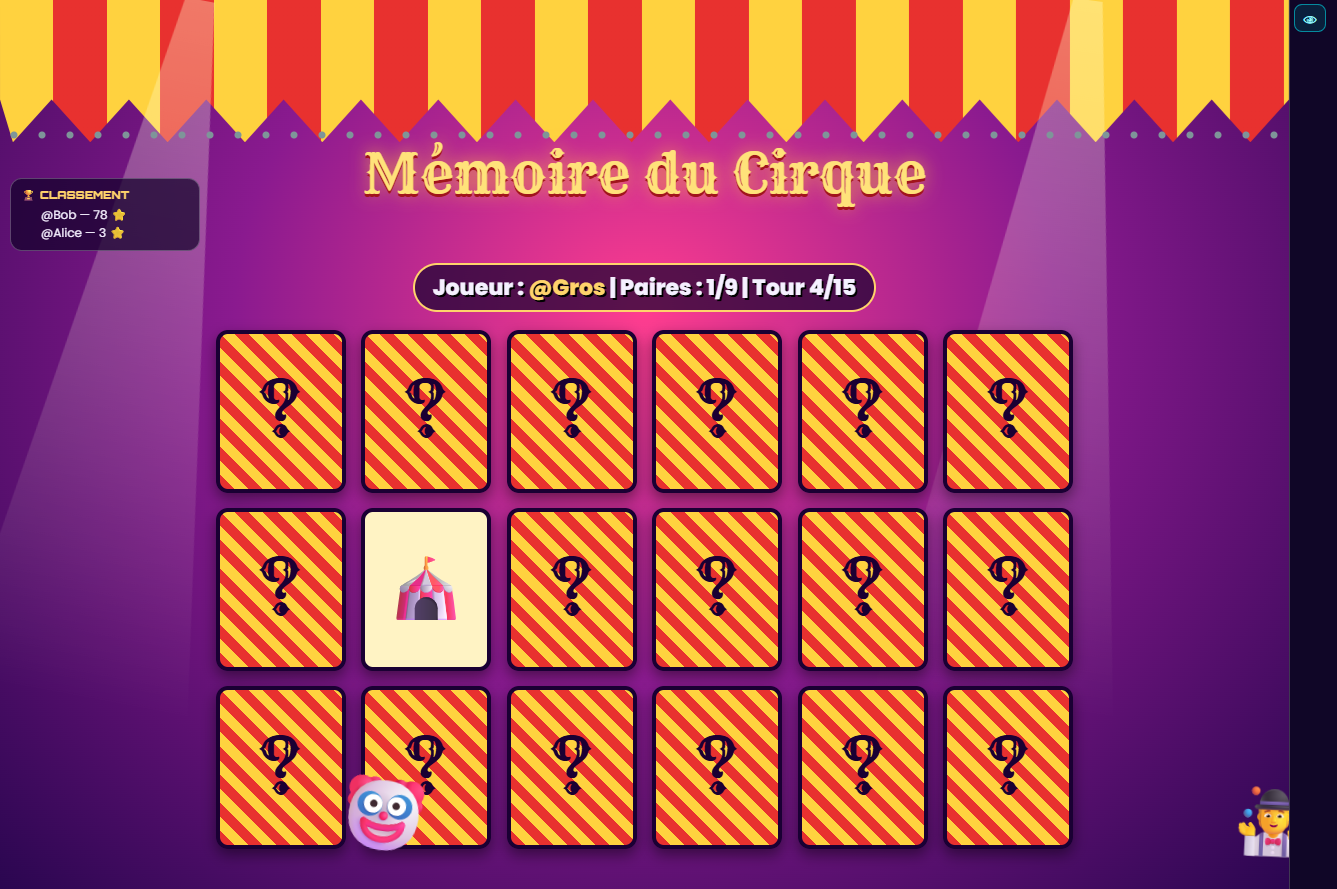
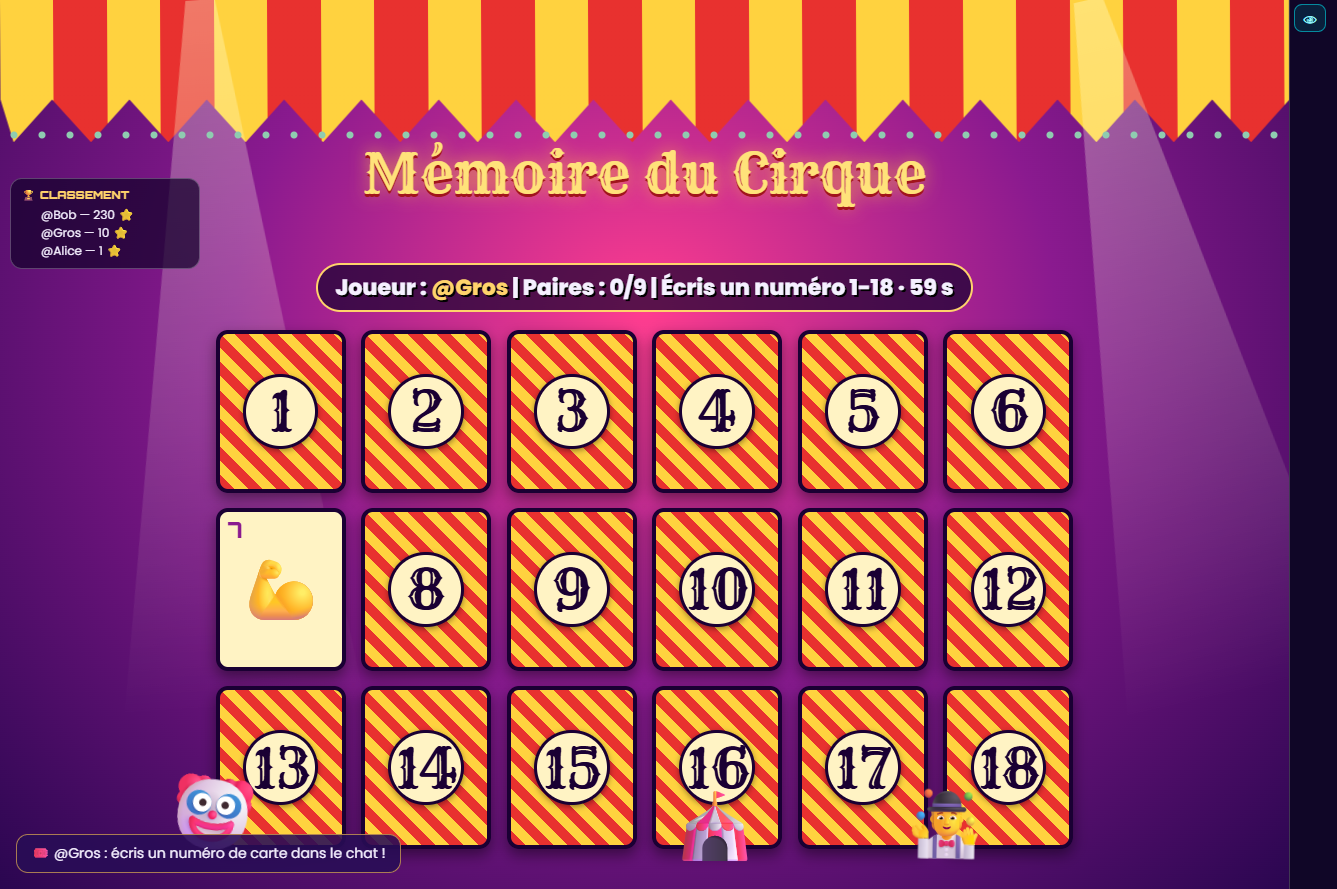
Memoire du Cirque: cartes numerotees, numeros dans le chat, fin de partie a la premiere erreur

diff --git a/memoire-du-cirque.html b/memoire-du-cirque.html
@@ -25,7 +25,9 @@
         .card { width: var(--cw); height: calc(var(--cw) * 1.25); position: relative; transform-style: preserve-3d; transition: transform .55s; }
         .card.up { transform: rotateY(180deg); }
         .card .face { position: absolute; inset: 0; display: flex; align-items: center; justify-content: center; border: 4px solid #1a0033; border-radius: 12px; backface-visibility: hidden; font-size: calc(var(--cw) * .5); box-shadow: 0 6px 14px rgba(0,0,0,.45); }
-        .card .back { background: repeating-linear-gradient(45deg, #e8312f 0 10px, #ffd23f 10px 20px); color: #1a0033; font: 400 calc(var(--cw) * .55) Rye, serif; }
+        .card .back { background: repeating-linear-gradient(45deg, #e8312f 0 10px, #ffd23f 10px 20px); color: #1a0033; }
+        .card .num { display: grid; place-items: center; width: 62%; aspect-ratio: 1; border-radius: 50%; background: #fff3c4; border: 3px solid #1a0033; font: 400 calc(var(--cw) * .42) Rye, serif; box-shadow: 0 2px 6px rgba(0,0,0,.4); }
+        .card .tag { position: absolute; top: 4px; left: 8px; font: 900 calc(var(--cw) * .17) Orbitron, sans-serif; color: #8a1a8f; }
         .card .front { background: #fff3c4; transform: rotateY(180deg); }
         .card.done .front { background: #b6ffcf; animation: pop .7s; }
         @keyframes pop { 40% { transform: rotateY(180deg) scale(1.2); } }
@@ -115,8 +117,8 @@
             </section>
             <section class="box">
                 <h3>Réglages</h3>
-                <label for="chance">Chance de paire <output id="chance-out">50%</output></label>
-                <input id="chance" type="range" min="0" max="100" step="1" value="50">
+                <label for="timeout">Temps pour jouer <output id="timeout-out">60 s</output></label>
+                <input id="timeout" type="range" min="15" max="180" step="5" value="60">
                 <div class="row">
                     <label>Min ⭐<input id="star-min" type="number" min="1" max="30" value="1"></label>
                     <label>Max ⭐<input id="star-max" type="number" min="1" max="30" value="30"></label>
@@ -129,6 +131,7 @@
                 <input id="sim-name" type="text" maxlength="24" value="Alex_TikTok 🚀" aria-label="Pseudo simulé">
                 <div class="row"><button id="sim-gift" class="btn" type="button">🎁 1 pièce</button><button id="sim-burst" class="btn" type="button">💥 ×5</button></div>
                 <button id="sim-big" class="btn" type="button">💎 Gros cadeau</button>
+                <div class="row"><input id="sim-num" type="text" inputmode="numeric" maxlength="3" placeholder="N° de carte" aria-label="Numéro écrit dans le chat"><button id="sim-say" class="btn alt" type="button">💬 Écrire dans le chat</button></div>
             </section>
             <section class="box">
                 <h3>Partie</h3>
@@ -144,11 +147,11 @@
         const $ = id => document.getElementById(id);
         const SAVE_KEY = 'memoire-du-cirque-save';
         const ICONS = ['🎪', '🎩', '🍿', '💪', '🦁', '🐯', '🤹', '🎟', '🚲'];
-        const PAIRS = ICONS.length, TURNS_PER_SESSION = 15;
-        const settings = { chance: 50, min: 1, max: 30, bigGift: 100, speed: 1, hideBoard: false };
+        const PAIRS = ICONS.length;
+        const settings = { timeout: 60, min: 1, max: 30, bigGift: 100, speed: 1, hideBoard: false };
         const viewers = new Map();
         const queue = [];
-        let session = null, running = false, cards = [], rewards = [], jackpotPair = 0, matched = 0, current = null;
+        let run = null, cards = [], rewards = [], jackpotPair = 0, matched = 0;
 
         const rand = (a, b) => a + Math.floor(Math.random() * (b - a + 1));
         const shuffle = list => { for (let i = list.length - 1; i > 0; i--) { const j = rand(0, i); [list[i], list[j]] = [list[j], list[i]]; } return list; };
@@ -179,8 +182,10 @@
             cards = deck.map((d, i) => {
                 const el = document.createElement('div');
                 el.className = 'card';
-                el.innerHTML = '<div class="face back">?</div><div class="face front"></div>';
-                el.querySelector('.front').textContent = d.icon;
+                el.innerHTML = '<div class="face back"><span class="num"></span></div><div class="face front"><span class="tag"></span><span class="ico"></span></div>';
+                el.querySelector('.num').textContent = i + 1;
+                el.querySelector('.tag').textContent = i + 1;
+                el.querySelector('.ico').textContent = d.icon;
                 grid.appendChild(el);
                 return { el, icon: d.icon, pair: d.pair, done: false, index: i };
             });
@@ -188,85 +193,108 @@
 
         function enqueue(viewer, coins, sim) {
             coins = Math.min(500, Math.max(1, Math.floor(coins)));
-            let entry = queue.find(q => q.viewer === viewer && q.sim === sim) || (session && session.entry.viewer === viewer && session.entry.sim === sim ? session.entry : null);
+            let entry = queue.find(q => q.viewer === viewer && q.sim === sim) || (run && run.entry.viewer === viewer && run.entry.sim === sim ? run.entry : null);
             if (!entry) {
                 if (queue.length >= 80) return;
-                entry = { viewer, sim, credits: 0, jackpots: 0 };
+                entry = { viewer, sim, credits: 0, big: 0 };
                 queue.push(entry);
             }
             entry.credits += coins;
-            if (coins >= settings.bigGift) entry.jackpots++;
-            runLoop();
+            if (coins >= settings.bigGift) entry.big++;
+            nextRun();
         }
 
-        async function runLoop() {
-            if (running) return;
-            running = true;
-            try {
-                while (queue.length || (session && session.left > 0)) {
-                    if (!session || session.left <= 0) {
-                        const entry = queue.shift();
-                        session = { entry, size: Math.min(TURNS_PER_SESSION, entry.credits), left: Math.min(TURNS_PER_SESSION, entry.credits), k: 0 };
-                    }
-                    const { entry } = session;
-                    session.k++; session.left--; entry.credits--;
-                    const jackpot = entry.jackpots > 0;
-                    if (jackpot) entry.jackpots--;
-                    current = entry.viewer;
-                    updateScoreboard();
-                    await playTurn(entry, jackpot);
-                    if (session.left <= 0) {
-                        if (entry.credits > 0) queue.push(entry);
-                        session = null;
-                    }
-                }
-            } finally {
-                running = false; current = null; session = null;
-                updateScoreboard();
-            }
+        /* Un jeton = une partie : le joueur écrit des numéros dans le chat jusqu'à sa première erreur */
+        function nextRun() {
+            if (run || !queue.length) return;
+            const entry = queue.shift();
+            entry.credits--;
+            const big = entry.big > 0;
+            if (big) entry.big--;
+            run = { entry, big, first: null, busy: false, pairs: 0, deadline: Date.now() + settings.timeout * 1000 };
+            say(`🎟 @${entry.viewer.username} : écris un numéro de carte dans le chat !`);
+            updateScoreboard();
+        }
+
+        function endRun() {
+            const r = run;
+            run = null;
+            if (r && r.entry.credits > 0) queue.push(r.entry);
+            updateScoreboard();
+            nextRun();
         }
 
         function flip(card, up) { card.el.classList.toggle('up', up); }
 
-        async function playTurn(entry, jackpot) {
-            const open = cards.filter(c => !c.done);
-            if (open.length < 2) { deal(); return playTurn(entry, jackpot); }
-            const target = jackpot ? open.find(c => c.pair === jackpotPair) : null;
-            const normal = open.filter(c => c.pair !== jackpotPair);
-            const a = target || shuffle((normal.length >= 2 ? normal : open).slice())[0];
-            const partner = open.find(c => c.pair === a.pair && c !== a);
-            const others = open.filter(c => c !== a && c !== partner);
-            const win = !others.length || Math.random() * 100 < settings.chance;
-            const b = win ? partner : others[rand(0, others.length - 1)];
+        async function resetGrid() {
+            cards.forEach(c => flip(c, false));
+            await sleep(700);
+            deal();
+        }
 
-            flip(a, true); await sleep(650);
-            flip(b, true); await sleep(1100);
+        function findViewer(raw) {
+            return viewers.get(String(raw || '').replace(/^@/, '').trim().toLowerCase());
+        }
 
-            if (win) {
+        function onChat(rawName, text) {
+            if (!run || run.busy) return;
+            const viewer = findViewer(rawName);
+            if (!viewer || viewer !== run.entry.viewer) return;
+            const m = /^#?\s*(\d{1,2})\s*$/.exec(String(text || '').trim());
+            const card = m && cards[Number(m[1]) - 1];
+            if (!card || card.done || card === run.first) return;
+            pick(card);
+        }
+
+        async function pick(card) {
+            const r = run;
+            r.busy = true;
+            flip(card, true);
+            if (!r.first) {
+                r.first = card;
+                await sleep(500);
+                r.deadline = Date.now() + settings.timeout * 1000;
+                r.busy = false;
+                return;
+            }
+            const a = r.first, b = card;
+            await sleep(1100);
+            if (a.pair === b.pair) {
                 a.done = b.done = true;
                 a.el.classList.add('done'); b.el.classList.add('done');
-                matched++;
-                const reward = rewards[a.pair];
-                entry.viewer.stars += reward;
-                if (!entry.sim && window.ArcadeStars) {
-                    window.ArcadeStars.award({ username: entry.viewer.username, amount: reward })
+                matched++; r.pairs++; r.first = null;
+                const reward = a.pair === jackpotPair && !r.big ? Math.max(1, Math.min(settings.min, settings.max)) : rewards[a.pair];
+                r.entry.viewer.stars += reward;
+                if (!r.entry.sim && window.ArcadeStars) {
+                    window.ArcadeStars.award({ username: r.entry.viewer.username, amount: reward })
                         .catch(error => { console.error('Étoiles non enregistrées :', error); say('Étoiles non enregistrées : ' + error.message); });
                 }
                 floatText(`+${reward} ⭐`, b.el);
-                say(`🎉 ${entry.viewer.username} trouve une paire : ${reward} ⭐`);
+                say(`🎉 @${r.entry.viewer.username} trouve une paire : ${reward} ⭐ — il continue !`);
                 updateScoreboard(); saveGame();
                 await sleep(900);
                 if (matched >= PAIRS) {
-                    say('🎪 Toutes les paires sont trouvées ! Nouvelle donne…');
+                    say('🎪 Grille complète ! Nouvelle grille, le joueur continue.');
                     await sleep(1800);
-                    cards.forEach(c => flip(c, false));
-                    await sleep(700);
-                    deal();
+                    await resetGrid();
                 }
+                r.deadline = Date.now() + settings.timeout * 1000;
+                r.busy = false;
             } else {
-                flip(a, false); flip(b, false);
-                await sleep(700);
+                say(`❌ Erreur ! Fin de partie pour @${r.entry.viewer.username}`);
+                await sleep(900);
+                await resetGrid();
+                endRun();
             }
+        }
+
+        function tick() {
+            if (run && !run.busy && Date.now() > run.deadline) {
+                say(`⏱ Temps écoulé pour @${run.entry.viewer.username}`);
+                if (run.first) { flip(run.first, false); run.first = null; }
+                endRun();
+            }
+            updateScoreboard();
         }
 
         function floatText(text, anchor) {
@@ -280,9 +308,11 @@
 
         function updateScoreboard() {
             const sb = $('scoreboard');
-            if (current && session) sb.innerHTML = `Joueur : <b></b> | Paires : ${matched}/${PAIRS} | Tour ${session.k}/${session.size}`;
-            else sb.innerHTML = `En attente d'un cadeau TikTok… | Paires : ${matched}/${PAIRS}`;
-            if (current && session) sb.querySelector('b').textContent = '@' + current.username;
+            if (run) {
+                const left = Math.max(0, Math.ceil((run.deadline - Date.now()) / 1000));
+                sb.innerHTML = `Joueur : <b></b> | Paires : ${matched}/${PAIRS} | Écris un numéro 1-${cards.length} · ${run.busy ? '…' : left + ' s'}`;
+                sb.querySelector('b').textContent = '@' + run.entry.viewer.username;
+            } else sb.textContent = `Offre un jeton TikTok pour jouer | Paires : ${matched}/${PAIRS}`;
         }
 
         function topViewers(n) { return [...viewers.values()].filter(v => v.stars > 0).sort((a, b) => b.stars - a.stars).slice(0, n); }
@@ -310,6 +340,9 @@
             else if (data.type === 'gift' || data.type === 'tiktok-gift') {
                 const g = data.gift ?? data;
                 enqueue(getViewer(g.username || g.nickname), coinsOf(g), false);
+            } else if (data.type === 'comment' || data.type === 'tiktok-comment' || data.type === 'chat') {
+                const c = data.commentData ?? data;
+                onChat(c.username || c.uniqueId || c.nickname, c.comment ?? c.text ?? c.message);
             }
         }
         function connect() {
@@ -350,7 +383,7 @@
         /* ---------- Interface ---------- */
         function syncControls() {
             $('speed').value = settings.speed; $('speed-out').textContent = settings.speed + '×';
-            $('chance').value = settings.chance; $('chance-out').textContent = settings.chance + '%';
+            $('timeout').value = settings.timeout; $('timeout-out').textContent = settings.timeout + ' s';
             $('star-min').value = settings.min; $('star-max').value = settings.max; $('big-gift').value = settings.bigGift;
             $('hide-board').checked = settings.hideBoard;
         }
@@ -362,7 +395,7 @@
             $('sim-big').addEventListener('click', () => sim(Math.max(1, settings.bigGift)));
             $('speed').addEventListener('input', e => { settings.speed = Number(e.target.value) || 1; syncControls(); saveGame(); });
             $('speed-reset').addEventListener('click', () => { settings.speed = 1; syncControls(); saveGame(); });
-            $('chance').addEventListener('input', e => { settings.chance = Math.min(100, Math.max(0, Number(e.target.value) || 0)); syncControls(); saveGame(); });
+            $('timeout').addEventListener('input', e => { settings.timeout = Math.min(180, Math.max(15, Number(e.target.value) || 60)); syncControls(); saveGame(); });
             const stars = () => {
                 settings.min = Math.min(30, Math.max(1, Math.floor(Number($('star-min').value) || 1)));
                 settings.max = Math.min(30, Math.max(settings.min, Math.floor(Number($('star-max').value) || settings.min)));
@@ -372,7 +405,9 @@
             };
             $('star-min').addEventListener('input', stars); $('star-max').addEventListener('input', stars);
             $('big-gift').addEventListener('input', e => { settings.bigGift = Math.max(2, Math.floor(Number(e.target.value) || 100)); saveGame(); });
-            $('reshuffle').addEventListener('click', () => { if (!running) deal(); else say('Une partie est en cours.'); });
+            $('reshuffle').addEventListener('click', () => { if (!run) deal(); else say('Une partie est en cours.'); });
+            $('sim-say').addEventListener('click', () => { onChat($('sim-name').value, $('sim-num').value); $('sim-num').select(); });
+            $('sim-num').addEventListener('keydown', e => { if (e.key === 'Enter') $('sim-say').click(); });
             $('hide-board').addEventListener('change', e => { settings.hideBoard = e.target.checked; refreshBoards(); saveGame(); });
             $('reset-board').addEventListener('click', () => { if (confirm('Remettre le classement à zéro ?')) { viewers.forEach(v => { v.stars = 0; }); refreshBoards(); saveGame(); } });
             $('eye').addEventListener('click', () => {
@@ -420,7 +455,7 @@
             let lastSig = null;
             function refresh() {
                 const rows = [];
-                if (session && current) rows.push({ now: true, viewer: session.entry.viewer, tag: `${session.k}/${session.size}` });
+                if (run) rows.push({ now: true, viewer: run.entry.viewer, tag: `${run.pairs} paire${run.pairs > 1 ? 's' : ''}` });
                 for (const q of queue) rows.push({ viewer: q.viewer, tag: '×' + q.credits, n: q.credits });
                 const sig = rows.map(r => (r.now ? '*' : '') + r.viewer.username + r.tag).join('|');
                 if (sig === lastSig) return;
@@ -451,6 +486,7 @@
         refreshBoards();
         setInterval(refreshBoards, 500);
         updateScoreboard();
+        setInterval(tick, 500);
     </script>
 </body>
 </html>
